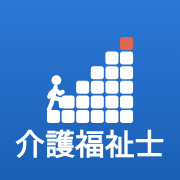
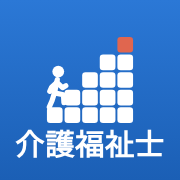
アイコンの階段を5段に変更
Claude-Session: https://claude.ai/code/session_016zB87FXbD785uSkpdnPZnq

Changed region(s): [[0.25, 0.1944, 0.75, 0.6944]]

diff --git a/docs/sw.js b/docs/sw.js
@@ -1,6 +1,6 @@
 // オフラインでも開けるよう、アプリ本体をキャッシュする
 // 教材や画面を更新したら VERSION を上げる（古いキャッシュが入れ替わる）
-const VERSION = "v23";
+const VERSION = "v24";
 const CACHE = "matome-anki-" + VERSION;
 const FILES = ["./", "./index.html", "./manifest.webmanifest", "./icon-192.png", "./icon-512.png", "./apple-touch-icon.png"];
 

diff --git a/pwa/sw.js b/pwa/sw.js
@@ -1,6 +1,6 @@
 // オフラインでも開けるよう、アプリ本体をキャッシュする
 // 教材や画面を更新したら VERSION を上げる（古いキャッシュが入れ替わる）
-const VERSION = "v23";
+const VERSION = "v24";
 const CACHE = "matome-anki-" + VERSION;
 const FILES = ["./", "./index.html", "./manifest.webmanifest", "./icon-192.png", "./icon-512.png", "./apple-touch-icon.png"];
 
